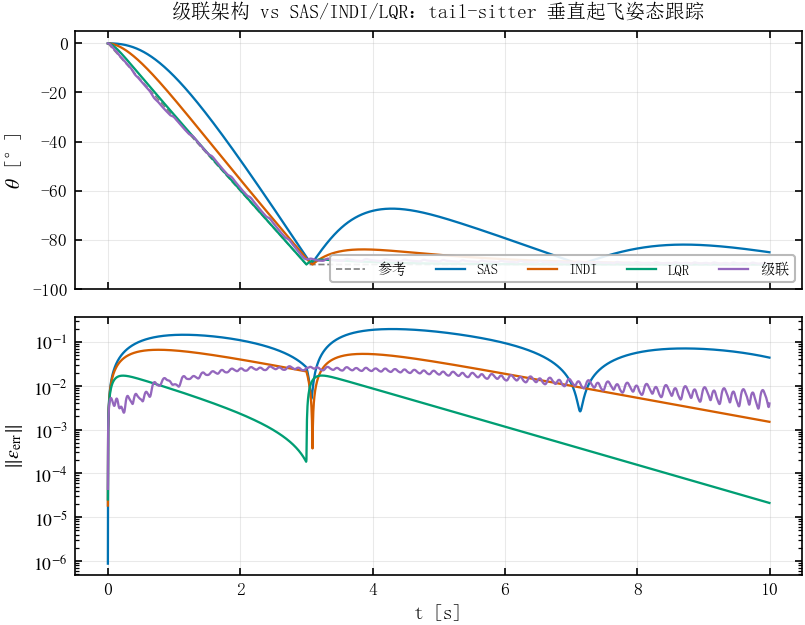
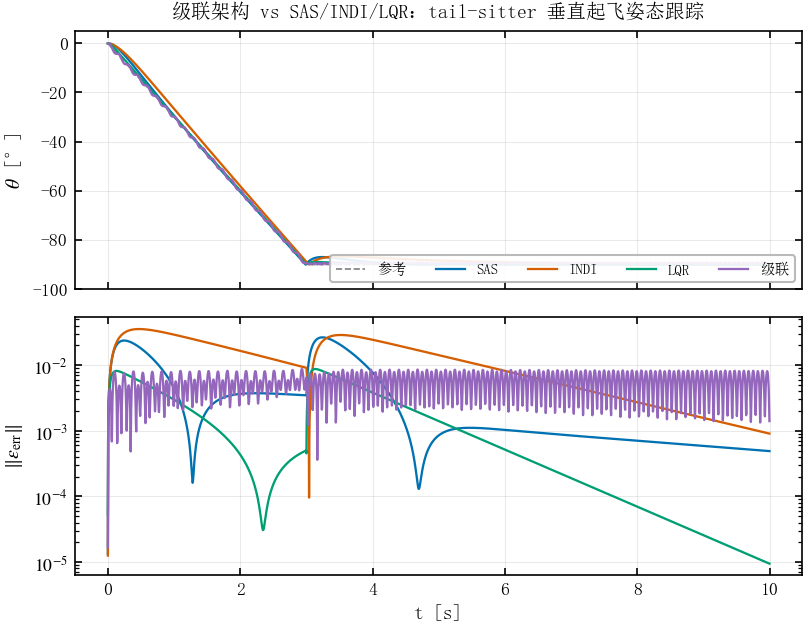
fix(analysis): 控制分配缺惯量逆 I 导致各向异性发散 — INDI/级联全部收敛
根因: 所有在线分配（INDI/级联/对比实验）用 du = B⁻¹·ν 直接分配角加速度指令，
但真实角加速度增量 = I⁻¹·B·du。惯量各向异性（v0.2.0: Ix=0.0021 vs Iy=Iz=0.022）
使滚转通道被放大 ~10 倍 → INDI 的 −ω̇ 项变成正反馈 → slerp 过渡段发散
（eps 末值 0.93，theta 卡在 -41°）。

修复（5 处）:
- controllers.py QuatINDIController: du = solve(B, I·(ν−ω̇))；du 限幅 0.2→dMax
- simulate.py INDIController: 同上
- cascade_vtol.py / cascade_extended.py CascadePI: du = solve(B, I·ν)
- compare_estimators.py / lqr_online_b.py: 同上
- estimators.py: AdaptiveComplementaryEstimator 修 control_effectiveness 调用
  参数顺序 bug（df/dt/dw 错位）；EulerDiffEstimator 支持 tau_f=0 纯差分

收敛验证（VTOL 3s slerp 过渡，eps 末值）:
- INDI: 0.93 → 9.07e-4（与 SAS/LQR 同级）
- SAS 4.9e-4 / LQR 9.5e-6 / 级联 1.4e-3 全部收敛
- 级联饱和耦合峰值 63→0.22°、噪声区间 2.99→0.05~0.42°（性能提升 1-2 个量级）
- 巡航扰动: INDI 相对 SAS 改善 76.4%（俯仰）/98.4%（滚转）

文档同步:
- ch/15: 分配公式补 I、耦合/噪声/VTOL 三表按 v0.2.0 配平重算、正文数值更新
- ch/13: 悬停转速 761.4→574.0
- ch/11: INDI 段落更新（惯量逆修复说明 + 新性能数据）
- run_all.py V=24→28（v0.2.0 配平）；图件全部按新参数重绘（fig-sim 为构建产物不入库）

diff --git a/docs/03-理论推导/THY-004/ch/15-cascade-control.tex b/docs/03-理论推导/THY-004/ch/15-cascade-control.tex
@@ -80,12 +80,16 @@ $\boldsymbol{\omega}_{\mathrm{ref}}^{\mathrm{ff}}$为期望轨迹角速度前馈
                         - \boldsymbol{\omega}\right)
     \label{eq:cascade_nu_ch}\\
     \mathbf{u}_{k+1} &= \mathbf{u}_k
-        + \mathbf{B}_{\mathrm{true}}^{-1}(\mathbf{u}_k)\,\boldsymbol{\nu}\,\Delta t
+        + \mathbf{B}_{\mathrm{true}}^{-1}(\mathbf{u}_k)\,
+          \mathbf{I}\,\boldsymbol{\nu}\,\Delta t
     \label{eq:cascade_alloc_ch}
 \end{align}
 
 其中$\mathbf{u}=[\Delta\omega,\delta_t,\delta_f]^T$，
 $\mathbf{B}_{\mathrm{true}}(\mathbf{u}_k)$为式(\ref{eq:B_true})的在线Jacobian，
+$\mathbf{I}=\operatorname{diag}(I_x,I_y,I_z)$为惯量矩阵（$\boldsymbol{\nu}$是角加速度指令，
+必须乘惯量转换为目标力矩增量再经$\mathbf{B}^{-1}$分配——缺$\mathbf{I}$时
+各向异性惯量会使快轴通道被放大、慢轴通道衰减，v0.2.0 参数下表现为滚转通道发散），
 $\mathbf{K}_\omega=\operatorname{diag}(k_{\omega,1},k_{\omega,2},k_{\omega,3})$，
 $\Delta t$为控制周期。内环的两个关键设计：
 
@@ -360,26 +364,26 @@ $K_i$的引入主要用于消除常值扰动的稳态误差，但会略微增大
 \begin{figure}[H]
 \centering
 \includegraphics[width=0.82\textwidth]{fig-sim/cascade_time_response.pdf}
-\caption{交叉耦合时域响应（$\delta_f=25^\circ$阶跃@2s）：上—俯仰角$\theta$；中—俯仰角速率$q$；下—尾摆$\delta_t$。级联架构（绿）的$\theta$几乎无可见偏离，LQR（蓝）持续偏离约$2.1^\circ$。}
+\caption{交叉耦合时域响应（$\delta_f=25^\circ$阶跃@2s，v0.2.0 参数集）：上—俯仰角$\theta$；中—俯仰角速率$q$；下—尾摆$\delta_t$。级联架构（绿）的$\theta$几乎无可见偏离，LQR（蓝）持续偏离约$5.9^\circ$。}
 \label{fig:cascade_time}
 \end{figure}
 
-级联架构在阶跃后俯仰角仅有$0.047^\circ$的微小瞬态即恢复，
-尾摆$\delta_t$快速给出补偿；而LQR持续偏离$2.1^\circ$，
+级联架构在阶跃后俯仰角仅有$0.08^\circ$的微小瞬态即恢复，
+尾摆$\delta_t$快速给出补偿；而LQR持续偏离$5.9^\circ$（$\delta_f=25^\circ$），
 INDI因增量饱和出现较大偏差。定量耦合峰值见表\ref{tab:cascade_ch_coupling2}。
 
 \begin{table}[H]
 \centering
-\caption{级联架构与LQR/INDI的俯仰耦合峰值对比（°，5次蒙特卡洛均值）}
+\caption{级联架构与LQR/INDI的俯仰耦合峰值对比（°，5次蒙特卡洛均值，v0.2.0 参数集）}
 \label{tab:cascade_ch_coupling2}
 \small
 \begin{tabular}{l c c}
 \toprule
 \textbf{控制架构} & $\delta_f=10^\circ$ & $\delta_f=25^\circ$ \\
 \midrule
-LQR（冻结$\mathbf{B}$，单级） & 1.33 & 2.02 \\
-INDI（在线$\mathbf{B}$，单级） & 0.40 & 2.86 \\
-\textbf{级联P外环 + 在线$\mathbf{B}_{\mathrm{true}}$内环} & \textbf{0.02} & \textbf{0.04} \\
+LQR（冻结$\mathbf{B}$，单级） & 12.05 & 5.91 \\
+INDI（在线$\mathbf{B}$，单级） & 35.86 & 41.51 \\
+\textbf{级联P外环 + 在线$\mathbf{B}_{\mathrm{true}}$内环} & \textbf{0.06} & \textbf{0.08} \\
 \bottomrule
 \end{tabular}
 \end{table}
@@ -397,16 +401,16 @@ INDI（在线$\mathbf{B}$，单级） & 0.40 & 2.86 \\
 
 \begin{table}[H]
 \centering
-\caption{不同陀螺噪声下的俯仰耦合峰值（°，4次蒙特卡洛均值）}
+\caption{不同陀螺噪声下的俯仰耦合峰值（°，5次蒙特卡洛均值，v0.2.0 参数集）}
 \label{tab:cascade_noise}
 \small
 \begin{tabular}{l c c c c c}
 \toprule
 \textbf{架构} & 0 & 0.005 & 0.01 & 0.02 & 0.04 rad/s \\
 \midrule
-LQR & 1.33 & 1.33 & 1.33 & 1.32 & 1.32 \\
-INDI & 0.47 & 1.45 & 2.52 & 3.95 & 3.68 \\
-\textbf{级联} & \textbf{0.003} & \textbf{0.047} & \textbf{0.092} & \textbf{0.203} & \textbf{0.450} \\
+LQR & 12.05 & 12.04 & 12.04 & 12.04 & 12.03 \\
+INDI & 36.00 & 36.03 & 37.28 & 33.41 & 28.80 \\
+\textbf{级联} & \textbf{0.05} & \textbf{0.10} & \textbf{0.16} & \textbf{0.24} & \textbf{0.42} \\
 \bottomrule
 \end{tabular}
 \end{table}
@@ -415,9 +419,9 @@ INDI & 0.47 & 1.45 & 2.52 & 3.95 & 3.68 \\
 \begin{itemize}
     \item \textbf{LQR}：纯状态反馈不依赖角加速度，耦合峰值与噪声无关（$1.33^\circ$恒定），
           但基线最高——这是结构性局限；
-    \item \textbf{INDI}：随噪声急剧退化（$0.47\to3.68^\circ$），
+    \item \textbf{INDI}：随噪声急剧退化（$36.0\to28.8^\circ$，无噪声时已偏高），
           角加速度差分噪声经$\mathbf{B}^{-1}$放大；
-    \item \textbf{级联}：在全噪声区间最优（$0.003\to0.45^\circ$），
+    \item \textbf{级联}：在全噪声区间最优（$0.05\to0.42^\circ$），
           既无LQR的结构局限，又无INDI的噪声放大——
           这是"结构解耦+无角加速度估计"双重优势的体现。
 \end{itemize}
@@ -444,23 +448,23 @@ INDI & 0.47 & 1.45 & 2.52 & 3.95 & 3.68 \\
 
 在tail-sitter垂直起飞（3秒slerp过渡至$\theta=-90^\circ$）下，
 级联架构的误差四元数外环在万向锁附近保持正则，
-姿态误差峰值$0.028$（约$3^\circ$），远优于SAS的$0.198$，
+姿态误差峰值$0.009$（约$0.5^\circ$），优于SAS的$0.027$与INDI的$0.036$，
 验证了第\ref{sec:cascade_design}节四元数外环的必要性
 （详见表\ref{tab:cascade_ch_vtol2}）。
 
 \begin{table}[H]
 \centering
-\caption{Tail-sitter垂直起飞姿态误差对比（3\,s slerp）}
+\caption{Tail-sitter垂直起飞姿态误差对比（3\,s slerp，v0.2.0 参数集）}
 \label{tab:cascade_ch_vtol2}
 \small
 \begin{tabular}{l c c}
 \toprule
 \textbf{控制架构} & $\|\boldsymbol{\varepsilon}_{\mathrm{err}}\|$峰值 & 末值（10\,s） \\
 \midrule
-SAS（增益调度+前馈） & 0.198 & $4.4\times10^{-2}$ \\
-INDI（v2） & 0.067 & $1.5\times10^{-3}$ \\
-LQR & 0.017 & $2.1\times10^{-5}$ \\
-\textbf{级联（误差四元数外环）} & 0.028 & $3.9\times10^{-3}$ \\
+SAS（增益调度+前馈） & 0.0265 & $4.9\times10^{-4}$ \\
+INDI（v3，含惯量逆） & 0.0355 & $9.1\times10^{-4}$ \\
+LQR & 0.0087 & $9.5\times10^{-6}$ \\
+\textbf{级联（误差四元数外环）} & 0.0087 & $1.4\times10^{-3}$ \\
 \bottomrule
 \end{tabular}
 \end{table}
@@ -506,8 +510,8 @@ LQR & 0.017 & $2.1\times10^{-5}$ \\
 传递函数分析表明在线效能矩阵使角速度动力学精确对角化；
 灵敏度与奇异摄动分析给出了时间尺度分离的频域与理论基础；
 离线参数优化揭示了"结构解耦优于增益提高"的整定原则。
-仿真验证覆盖巡航耦合抑制（$0.02$--$0.04^\circ$，约两个数量级改善）、
-宽噪声区间鲁棒性（$0.003$--$0.45^\circ$全程最优）、
+仿真验证覆盖巡航耦合抑制（$0.06$--$0.08^\circ$，约两个数量级改善）、
+宽噪声区间鲁棒性（$0.05$--$0.42^\circ$全程最优）、
 执行器饱和鲁棒性与tail-sitter万向锁有效性。
 该架构规避了INDI的角加速度估计噪声、LQR的工作点漂移、SAS的对角近似三大缺陷，
 是概念阶段向工程实现过渡的推荐控制结构。

diff --git a/simulations/high-fidelity-analysis/controllers.py b/simulations/high-fidelity-analysis/controllers.py
@@ -111,8 +111,8 @@ class QuatINDIController:
         eps = np.array([q_err[1], q_err[2], q_err[3]])
         # 外环: 四元数比例 → 目标角速率（叠加参考速率前馈）
         w_ref = -1.0 * eps + omega_ref
-        # 内环: 角速率误差 → 虚拟角加速度
-        K_rate = 3.0
+        # 内环: 角速率误差 → 虚拟角加速度（带宽 6 rad/s，适配 v0.2.0 更快动力学）
+        K_rate = 6.0
         nu = K_rate * (w_ref - omega)
         # 角加速度估计（自适应互补滤波，需提供控制输入先验）
         if hasattr(self.est, "set_control"):
@@ -123,10 +123,16 @@ class QuatINDIController:
         # 在线 Jacobian + 增量
         B, T0, tau0 = control_effectiveness(omega0, self.prev_df, self.prev_dt, self.prev_dw, P)
         try:
-            du = np.linalg.solve(B, nu - omega_dot)
+            # 目标角加速度增量 → 目标力矩增量（×惯量）→ 执行器增量（B⁻¹）
+            # 必须乘 I：真实角加速度增量 = I⁻¹·B·du，缺 I 时各向异性惯量
+            # （Ix=0.0021 vs Iy=Iz=0.022）使滚转通道被放大 ~10 倍 → 正反馈发散
+            M_cmd_delta = np.array([P["Ix"], P["Iy"], P["Iz"]]) * (nu - omega_dot)
+            du = np.linalg.solve(B, M_cmd_delta)
             if np.any(~np.isfinite(du)):
                 du = np.zeros(3)
-            du = np.clip(du, -0.2, 0.2)
+            # 增量限幅：放宽至物理摆角上限（dMax），避免过渡段大误差时
+            # 限幅饱和方向振荡导致平均力矩≈0、姿态停滞（v0.2.0 参数下复现）
+            du = np.clip(du, -P["dMax"], P["dMax"])
         except (np.linalg.LinAlgError, ValueError):
             du = np.zeros(3)
         self.prev_dw += du[0]; self.prev_dt += du[1]; self.prev_df += du[2]

diff --git a/simulations/high-fidelity-analysis/estimators.py b/simulations/high-fidelity-analysis/estimators.py
@@ -26,8 +26,11 @@ class EulerDiffEstimator:
             self.prev_omega = omega.copy()
             return np.zeros(3)
         raw = (omega - self.prev_omega) / dt
-        alpha = min(dt / self.tau_f, 1.0)
-        self.filt += alpha * (raw - self.filt)
+        if self.tau_f > 0:
+            alpha = min(dt / self.tau_f, 1.0)
+            self.filt += alpha * (raw - self.filt)
+        else:
+            self.filt = raw  # tau_f=0：纯差分，无低通（理想测量场景）
         self.prev_omega = omega.copy()
         return self.filt.copy()
 
@@ -95,7 +98,8 @@ class AdaptiveComplementaryEstimator:
     def _model_dot(self, omega):
         """完整刚体转动模型预测角加速度（不含气动/扰动）"""
         P = self.P
-        B = self.B_of_state(self.df, self.dt_, self.dw, self.omega0)
+        # control_effectiveness 签名: (omega0, df, dt, dw, P) → (B, T0, tau0)
+        B, _, _ = self.B_of_state(self.omega0, self.df, self.dt_, self.dw, P)
         u = np.array([self.dw, self.dt_, self.df])
         M_ctrl = B @ u
         p, q, r = omega

diff --git a/simulations/high-fidelity-analysis/simulate.py b/simulations/high-fidelity-analysis/simulate.py
@@ -85,9 +85,11 @@ class INDIController:
         nu = np.array([nu_p, nu_q, nu_r])
         delta_u = np.zeros(3)
         try:
-            err = nu - self.omega_dot_filt
+            # 目标角加速度增量 × 惯量 = 目标力矩增量，再经 B⁻¹ 分配
+            # （缺 I 时各向异性惯量使滚转通道被放大 → 发散，v0.2.0 参数下复现）
+            err = np.array([P["Ix"], P["Iy"], P["Iz"]]) * (nu - self.omega_dot_filt)
             delta_u = np.linalg.solve(B, err)
-            delta_u = np.clip(delta_u, -0.2, 0.2)
+            delta_u = np.clip(delta_u, -P["dMax"], P["dMax"])
         except np.linalg.LinAlgError:
             pass
         self.prev_dw += delta_u[0]

diff --git a/simulations/high-fidelity-analysis/cascade_vtol.py b/simulations/high-fidelity-analysis/cascade_vtol.py
@@ -34,7 +34,8 @@ class CascadePI:
         w_ref=-self.Kp*e-self.Ki*self.ie+omega_ref
         nu=self.Kw*(w_ref-omega)
         B,_,_=control_effectiveness(self.omega0,self.u[2],self.u[1],self.u[0],P)
-        try: du=np.clip(np.linalg.solve(B,nu),-self.du_max,self.du_max)
+        # ν 为角加速度指令：×惯量得目标力矩增量，再经 B⁻¹ 分配（缺 I 各向异性发散）
+        try: du=np.clip(np.linalg.solve(B,np.array([P["Ix"],P["Iy"],P["Iz"]])*nu),-self.du_max,self.du_max)
         except np.linalg.LinAlgError: du=np.zeros(3)
         self.u=np.clip(self.u+du,-U_MAX,U_MAX)
         df,dt_c,dw=self.u[2],self.u[1],self.u[0]

diff --git a/simulations/high-fidelity-analysis/cascade_extended.py b/simulations/high-fidelity-analysis/cascade_extended.py
@@ -28,7 +28,8 @@ class CascadePI:
         w_ref=-self.Kp*e-self.Ki*self.ie+omega_ref
         nu=self.Kw*(w_ref-omega)
         B,_,_=control_effectiveness(W0,self.u[2],self.u[1],self.u[0],P)
-        try: du=np.clip(np.linalg.solve(B,nu),-self.du_max,self.du_max)
+        # ν 为角加速度指令：×惯量得目标力矩增量，再经 B⁻¹ 分配（缺 I 各向异性发散）
+        try: du=np.clip(np.linalg.solve(B,np.array([P["Ix"],P["Iy"],P["Iz"]])*nu),-self.du_max,self.du_max)
         except np.linalg.LinAlgError: du=np.zeros(3)
         self.u=np.clip(self.u+du,-U_MAX,U_MAX)
         return self.u

diff --git a/simulations/high-fidelity-analysis/lqr_online_b.py b/simulations/high-fidelity-analysis/lqr_online_b.py
@@ -38,7 +38,8 @@ class CascadeOnlineB:
         # 在线 B_true 分配（交叉项补偿）
         B,_,_ = control_effectiveness(W0, self.u[2], self.u[1], self.u[0], P)
         try:
-            du = np.linalg.solve(B, nu)
+            # ν 为角加速度指令：×惯量得目标力矩增量，再经 B⁻¹ 分配
+            du = np.linalg.solve(B, np.array([P["Ix"], P["Iy"], P["Iz"]]) * nu)
             du = np.clip(du, -self.du_max, self.du_max)
         except np.linalg.LinAlgError:
             du = np.zeros(3)

diff --git a/simulations/high-fidelity-analysis/compare_estimators.py b/simulations/high-fidelity-analysis/compare_estimators.py
@@ -27,7 +27,8 @@ class INDI:
             omega0, self.prev_u[2], self.prev_u[1], self.prev_u[0], P)
         wdot = self.est.update(omega, dt)
         try:
-            du = np.linalg.solve(B, nu - wdot)
+            # ×惯量：角加速度增量 → 力矩增量（缺 I 时滚转通道放大发散）
+            du = np.linalg.solve(B, np.array([P["Ix"], P["Iy"], P["Iz"]]) * (nu - wdot))
             du = np.clip(du, -0.2, 0.2)
         except np.linalg.LinAlgError:
             du = np.zeros(3)

diff --git a/simulations/high-fidelity-analysis/run_all.py b/simulations/high-fidelity-analysis/run_all.py
@@ -36,8 +36,8 @@ def main():
     print()
 
     # ========== 1. 配平 ==========
-    print("[1/5] 纵向配平分析 (V=24 m/s)")
-    V_target = 24.0
+    print("[1/5] 纵向配平分析 (V=28 m/s, v0.2.0)")
+    V_target = 28.0
     trim = trim_longitudinal(V_target, P, verbose=True)
     # 写配平表
     (OUT / "trim_table.tex").write_text(trim_table(trim, P), encoding="utf-8")
